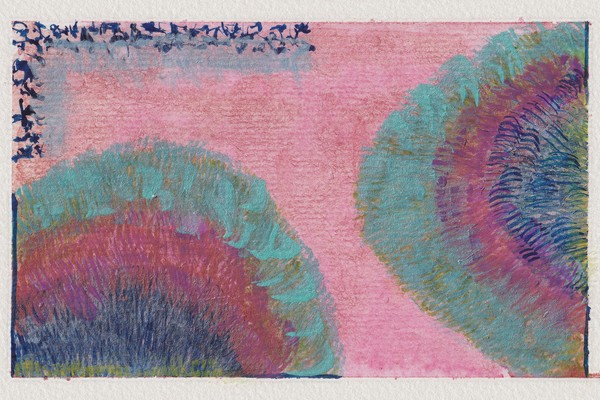
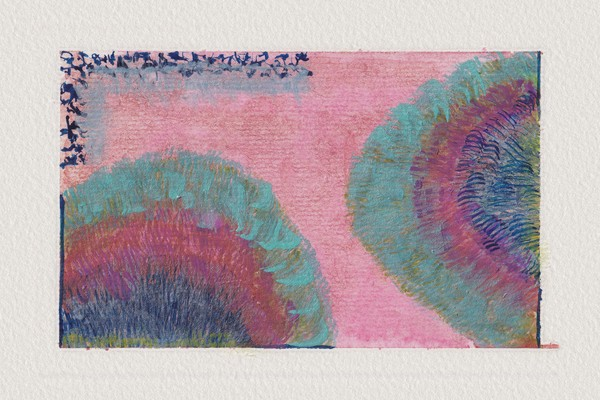
Index: menus clickable again (the sticky series name let clicks through)

diff --git a/works-index.html b/works-index.html
@@ -183,7 +183,7 @@ footer { flex: none; height: var(--footer-h); box-sizing: border-box; border-top
 @media (hover: hover) and (pointer: fine) {
   .index .tools { position: sticky; top: var(--band-top, 0px); z-index: 200; background: #FDFDFB; }
   .index .tools::after { content: ''; position: absolute; left: 0; right: 0; top: 100%; height: var(--band-ext, 14px); background: #FDFDFB; pointer-events: none; }
-  .index .idx-series { position: sticky; z-index: 201; }
+  .index .idx-series { position: sticky; z-index: 201; pointer-events: none; }   /* (it runs the full width on the menus' line: clicks pass through to the menus) */
 }
 /* (since 2026-11-17, Grace) the header above everything on the page, so a thumbnail swelling as it scrolls under the band never shows
    over the header (the genie lifts thumbnails as high as z-index 150; the header was 30). The header keeps its own #FDFDFB background */

diff --git a/SITE-STATE.md b/SITE-STATE.md
@@ -116,7 +116,7 @@ The three templated gallery files (clean, boxed, horizontal) share the same data
 - **Homepage thumbnails** (since 2026-11-13, Grace; index.html and H77 only, via `make_h2.py h77`): the thumbnail swell follows the cursor at half its speed (0.9s, was 0.45s). The intro wordmark over the painting on load (every homepage version): its black panel at 60% of its earlier darkness (rgba 0,0,0 at 0.0975, was 0.1625), and the lettering's shadow darker and wider (a `drop-shadow(0 0.1vw 0.35vw rgba(0,0,0,0.55))`: about 4px down with a 13px blur at 3840 over the shadow baked into `intro-logo-spaced.png`). On index.html and H77 (since 2026-11-13, Grace) the wordmark stays on screen 6s before fading (3.2s on the other homepage versions); set in `make_h2.py`'s h77 block. The thumbnails are 87.5% of their earlier size, halfway between that and a 75% trial (`--h77-thumb` 0.05473125 of the content width from 1280px, was 0.06255; 0.0348075 below, was 0.03978): about 224 x 150 at 3840 x 1834, was 256 x 171; the painting does not move. Every homepage version (`Home.dc.html`): leaving the tray, the thumbnails settle back softly and slowly (1.2s, `cubic-bezier(0.25, 0.1, 0.25, 1)`; was 0.5s, quicker to settle); the hover title fades in over 0.5s as before and fades off over 1.1s (`hoverTitleFade`); moving to another thumbnail, the old name fades off where it was (a copy laid over the page, `ghostTip()`) while the new one fades in under its thumbnail. The thumbnails (and the hover title under them) sit 15px higher than before (`translateY(calc(9px + 0.2 * var(--h77-thumb)))`, was 24px + the same), so the title shows without scrolling: its bottom 31px above the window's at 3840 x 1834, 12px at 2560 x 1300, 15px at 1920 x 960. Every homepage version (`Home.dc.html`, `followTip()`): the hover title is always exactly centred under the thumbnail it names, placed each frame under the thumbnail's actual centre while the pointer is over the tray and for a second after (through the swell and any glide; it no longer has a transform transition of its own); its fade stays 0.5s on the same curve as the Gallery's 3- and 9-up captions.
 - **Index genie restored (since 2026-11-17, Grace; `works-index.html`; overrides the 2026-11-14 "hovers as on GALLERY" change, which is undone)**: the cascading genie is back as before 14 Nov: the thumbnail under the cursor swells to 150%, its neighbours less along a bell curve, nudged aside so they never overlap; since 2026-11-17 (Grace) quicker to react, 0.6s on an ease that moves at once and settles softly (was 0.9s on a slow-starting ease); one series and Vertical keep their own hover sizes (--hz).
 - **Index series switching (since 2026-11-17)**: a Series or Year pick made while the previous one's works are still fading out (0.5s) cancels it, so quick picks no longer race and leave the wrong series (or none) showing; the last pick always wins. Checked with picks 100-300ms apart.
-- **Index sticky band (since 2026-11-17, Grace; desktop, mouse)**: the menus' line, where the hovered series' name shows, stays under the header as the page scrolls (`.tools` sticky, z-index 200, on #FDFDFB, reaching 14px below the line via `--band-ext`; the series name sticks with it); the thumbnails slide under it. Nothing is covered at rest (the top row's genie swell stays 41px clear at 3840, 5px at 1920). Once scrolled, a thumbnail partly under the band that the pointer moves or wheels onto glides down until its full hover size shows 8px clear of the band (`reveal()`, 120ms after the pointer stops, after any wheel glide). Also fixed: the wheel glide's last steps rounded away, so it stalled a few px short and never finished; it now moves at least 1px a frame, as on I2 and the G6 editorial pages (G6, G6a) since the same day. The header sits above everything on the Index (z-index 300, was 30, on its own #FDFDFB), so a thumbnail swelling as it scrolls under the band never shows over it.
+- **Index sticky band (since 2026-11-17, Grace; desktop, mouse)**: the menus' line, where the hovered series' name shows, stays under the header as the page scrolls (`.tools` sticky, z-index 200, on #FDFDFB, reaching 14px below the line via `--band-ext`; the series name sticks with it, letting clicks through to the menus, since it runs the full width on their line); the thumbnails slide under it. Nothing is covered at rest (the top row's genie swell stays 41px clear at 3840, 5px at 1920). Once scrolled, a thumbnail partly under the band that the pointer moves or wheels onto glides down until its full hover size shows 8px clear of the band (`reveal()`, 120ms after the pointer stops, after any wheel glide). Also fixed: the wheel glide's last steps rounded away, so it stalled a few px short and never finished; it now moves at least 1px a frame, as on I2 and the G6 editorial pages (G6, G6a) since the same day. The header sits above everything on the Index (z-index 300, was 30, on its own #FDFDFB), so a thumbnail swelling as it scrolls under the band never shows over it.
 - **Index speeds** (since 2026-11-13, Grace): choosing a series, its entrance at 60% of its speed (the works moving into place 1.333s, was 0.8s; new works fading in over 1s after 0.417s, were 0.6s after 0.25s; those leaving 0.5s, were 0.3s).
 - **Search overlay** (since 2026-11-13, Grace; `search.js?v=5`): the white overlay at 80% (was 98%), so the page shows faintly behind it; once there are results (or "nothing matches"), they sit on a white box with 40px padding, 24px under the count.
 - **Detail image shadow** (since 2026-11-13, Grace; `Gallery.dc.html`, and the MAG pages built from it): the original's detail image carries GX2's shadow on its works, `0 6px 16px rgba(20,20,20,0.14), 6px 9px 16px rgba(20,20,20,0.392)` (`detailShadow`); the buy page's print keeps its wall shadow (`printShadow`). The detail page's series link opens GALLERY's (GX3's) grid filtered to that series (`gallery-gx3.html?view=9&series=...`), and its Back button returns to the page it came from or, opened directly, goes to GALLERY (GX3); the same in `Gallery-zoom.dc.html`.
